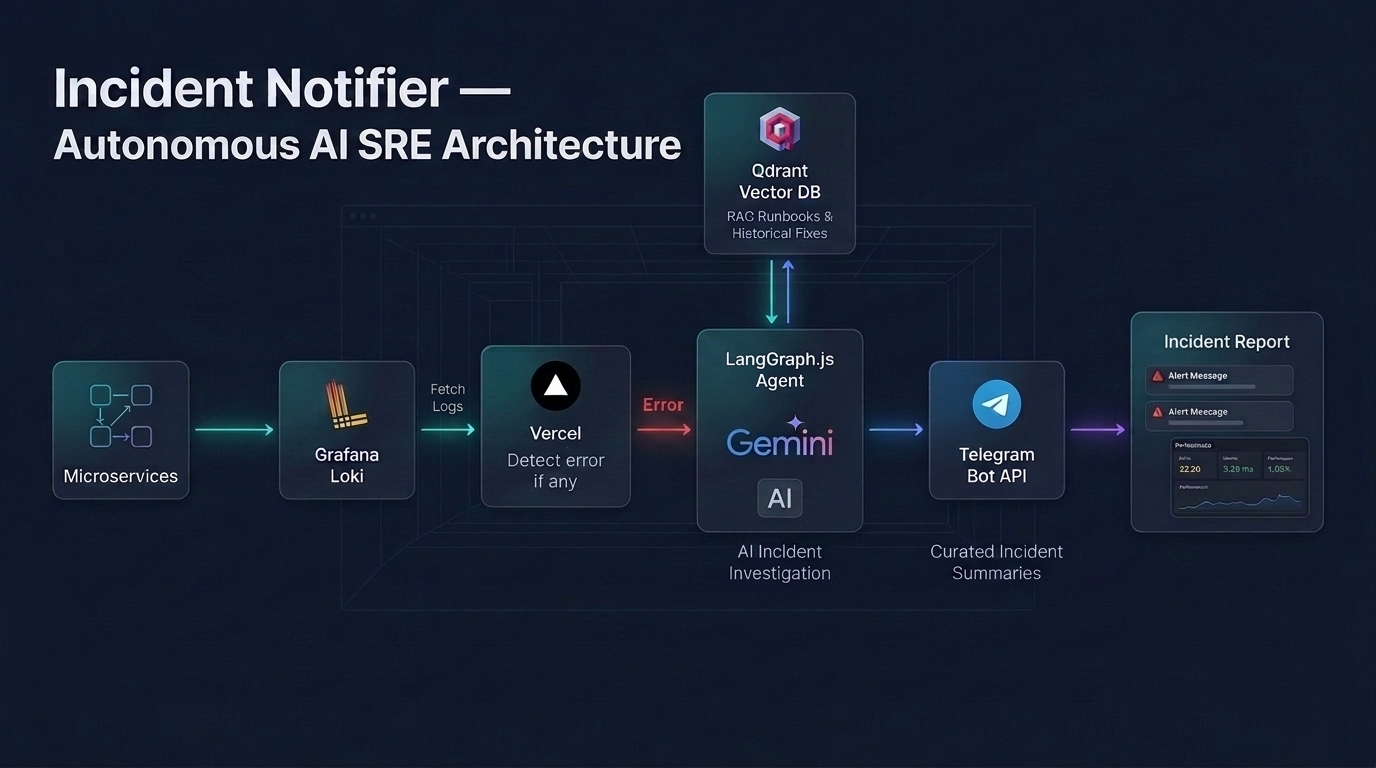
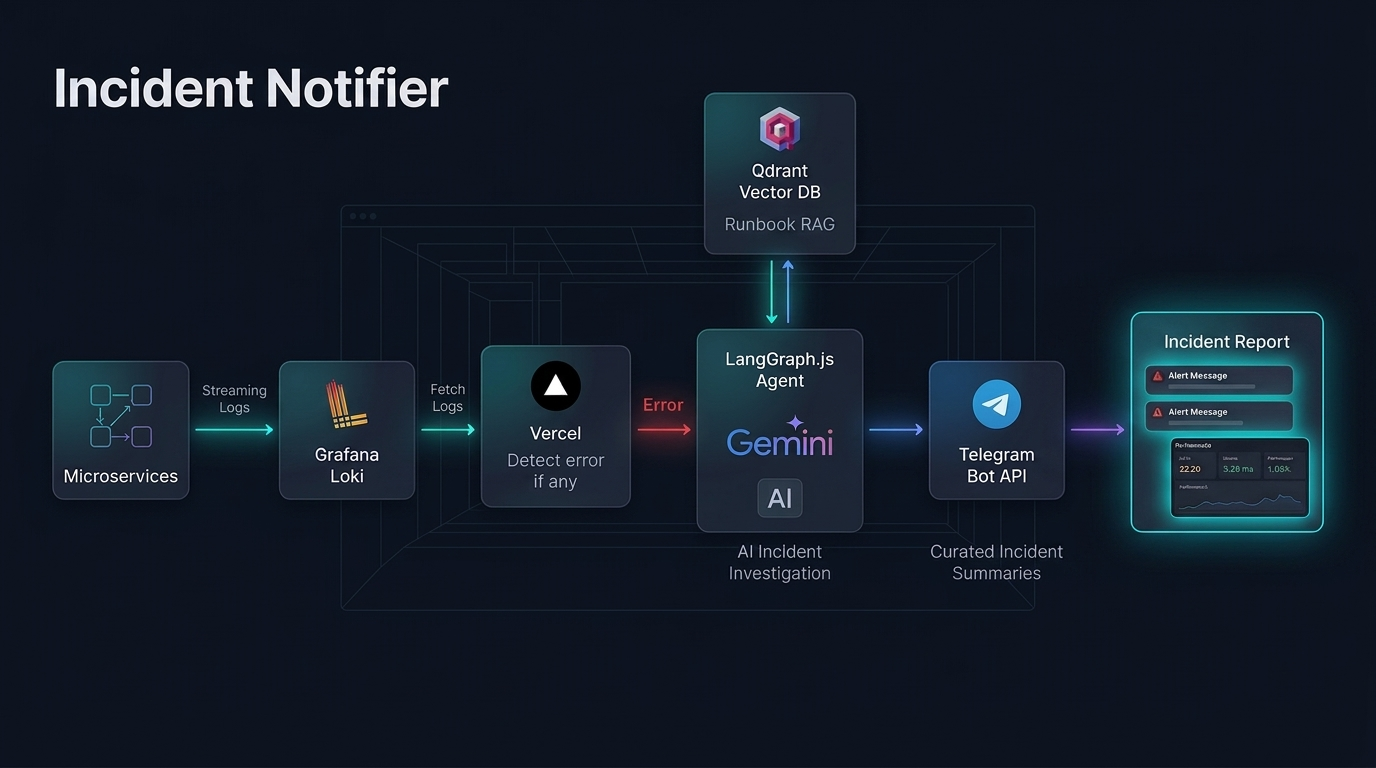
feat: final architecture image with clean heading, streaming logs label, and ingest-files sync

diff --git a/src/rag/ingest.ts b/src/rag/ingest.ts
@@ -1,7 +1,7 @@
 /**
  * @file src/rag/ingest.ts
  * @description Ingestion pipeline script chunking runbook documents and populating Qdrant collections.
- * Recursively scans `./ingest-docs`, segments documents into overlapping token-aware chunks via
+ * Recursively scans `./ingest-files`, segments documents into overlapping token-aware chunks via
  * RecursiveCharacterTextSplitter, computes vector embeddings, and bulk-upserts them to Qdrant.
  */
 
@@ -47,7 +47,7 @@ export async function ingestDocuments(
     allDocs.push(...customDocs);
   }
 
-  const localDir = options.localDir ?? "./ingest-docs";
+  const localDir = options.localDir ?? "./ingest-files";
   const localDocs = await loadLocalDirectory(localDir);
   if (localDocs.length > 0) {
     console.log(`[RAG] Loaded ${localDocs.length} documents from local directory "${localDir}".`);

diff --git a/src/rag/load-docs.ts b/src/rag/load-docs.ts
@@ -45,7 +45,7 @@ export async function loadLocalFile(filePath: string): Promise<Document> {
 /**
  * Recursively scans a directory and loads all supported runbook/architecture documentation files.
  *
- * @param dirPath - Directory path (default: ./ingest-docs)
+ * @param dirPath - Directory path (default: ./ingest-files)
  * @param options - Custom extension filter and recursion flags
  */
 export async function loadLocalDirectory(

diff --git a/README.md b/README.md
@@ -1,10 +1,6 @@
 # Incident Notifier
 
-An autonomous AI Site Reliability Engineering (SRE) agent that monitors application logs in Grafana Loki, detects errors, investigates their likely root causes using log context and internal runbooks (via Qdrant Vector RAG), and generates evidence-backed incident reports directly to your Telegram bot (and terminal).
-
----
-
-## 🏗 Architecture
+An autonomous AI Site Reliability Engineering (SRE) agent that monitors application logs in Grafana Loki, detects errors, investigates their likely root causes using log context and internal runbooks (via Qdrant Vector RAG), and generates evidence-backed incident reports directly to your Telegram bot.
 
 ![Incident Notifier Architecture](docs/architecture.png)
 
@@ -31,11 +27,11 @@ docker ps
 ### Step 2: Ingest Knowledge Base Runbooks
 
 > [!IMPORTANT]
-> **Demo Files Notice:** The pre-included files in `./ingest-docs` (`database-config.md`, `payment-service-api.md`, `redis-cache-config.md`, etc.) are mock runbooks created **strictly for testing the sample `test-app`**.
+> **Demo Files Notice:** The pre-included files in `./ingest-files` (`database-config.md`, `payment-service-api.md`, `redis-cache-config.md`, etc.) are mock runbooks created **strictly for testing the sample `test-app`**.
 >
 > **To monitor your own real-world application:**
-> 1. **Remove the demo files** from `./ingest-docs/`.
-> 2. **Add your own application's documentation** into `./ingest-docs/` (architecture specs, database connection pool guides, third-party API timeout policies, error code catalogs, and SRE recovery procedures in `.md` or `.txt`).
+> 1. **Remove the demo files** from `./ingest-files/`.
+> 2. **Add your own application's documentation** into `./ingest-files/` (architecture specs, database connection pool guides, third-party API timeout policies, error code catalogs, and SRE recovery procedures in `.md` or `.txt`).
 > 3. **Run the ingestion script** to chunk and embed your runbooks into Qdrant Vector DB:
 
 ```bash
@@ -44,7 +40,7 @@ bun run ingest
 
 You should see:
 ```text
-[RAG] Loaded X documents from local directory "./ingest-docs".
+[RAG] Loaded X documents from local directory "./ingest-files".
 [RAG] Successfully ingested Y chunks into Qdrant collection "incident-knowledge".
 ```
 
@@ -95,13 +91,13 @@ curl -X POST http://localhost:4000/simulate/auth-spike
 Follow these steps to connect Incident Notifier to your own microservices or production systems:
 
 ### 1. Remove Demo Runbooks & Add Your App Docs
-The files currently in `./ingest-docs/` are mock runbooks for the test suite. Clean them out and place your own documentation in `./ingest-docs/`:
+The files currently in `./ingest-files/` are mock runbooks for the test suite. Clean them out and place your own documentation in `./ingest-files/`:
 ```bash
 # Clean out test-app demo runbooks
-rm ingest-docs/*.md
+rm ingest-files/*.md
 
 # Add your service documentation, architecture specs, and runbooks
-cp /path/to/your-app-docs/*.md ./ingest-docs/
+cp /path/to/your-app-docs/*.md ./ingest-files/
 ```
 Include:
 - System overview, database connection pool limits, third-party API timeout thresholds.
